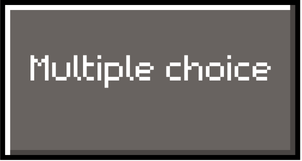
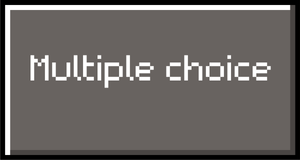
Changed all jpg to png

Changed region(s): [[0.0, 0.0, 1.0, 1.0], [0.09, 0.3438, 0.51, 0.5625], [0.54, 0.3438, 0.9, 0.5312]]

diff --git a/page2.html b/page2.html
@@ -110,29 +110,31 @@
     <div class="bg-container">
         <div class="bg-cropper">
             <img src="lib/2.png" alt="Background" class="bg-img" draggable="false" />
+            <!-- Top row: Big buttons -->
             <a href="/page3?button=pm" style="display:block; z-index:1;">
-                <img src="lib/2_bigbutton_pm.jpg" alt="BigPM" class="scaling-btn" style="cursor:pointer; left:15%; top:calc(40 * 1vh); width:12vw; height:12vw; --btn-top-percent:40%;" />
+                <img src="lib/2_bigbutton_pm.png" alt="BigPM" class="scaling-btn" style="cursor:pointer; left:15%; top:calc(40 * 1vh); width:12vw; height:12vw; --btn-top-percent:40%;" />
             </a>
             <a href="/page3?button=ux" style="display:block; z-index:1;">
-                <img src="lib/2_bigbutton_ux.jpg" alt="BigUX" class="scaling-btn" style="cursor:pointer; left:35%; top:calc(40 * 1vh); width:12vw; height:12vw; --btn-top-percent:40%;" />
+                <img src="lib/2_bigbutton_ux.png" alt="BigUX" class="scaling-btn" style="cursor:pointer; left:35%; top:calc(40 * 1vh); width:12vw; height:12vw; --btn-top-percent:40%;" />
             </a>
             <a href="/page3?button=engi" style="display:block; z-index:1;">
-                <img src="lib/2_bigbutton_engi.jpg" alt="BigENGI" class="scaling-btn" style="cursor:pointer; left:55%; top:calc(40 * 1vh); width:12vw; height:12vw; --btn-top-percent:40%;" />
+                <img src="lib/2_bigbutton_engi.png" alt="BigENGI" class="scaling-btn" style="cursor:pointer; left:55%; top:calc(40 * 1vh); width:12vw; height:12vw; --btn-top-percent:40%;" />
             </a>
             <a href="/page3?button=dm" style="display:block; z-index:1;">
-                <img src="lib/2_bigbutton_dm.jpg" alt="BigDM" class="scaling-btn" style="cursor:pointer; left:75%; top:calc(40 * 1vh); width:12vw; height:12vw; --btn-top-percent:40%;" />
+                <img src="lib/2_bigbutton_dm.png" alt="BigDM" class="scaling-btn" style="cursor:pointer; left:75%; top:calc(40 * 1vh); width:12vw; height:12vw; --btn-top-percent:40%;" />
             </a>
+            <!-- Bottom row: Rectangular buttons -->
             <a href="/page3?button=pm" class="pm-btn" style="display:block; z-index:1;">
-                <img src="lib/button_pm.jpg" alt="PM" class="scaling-btn" style="cursor:pointer; left:13%; top:calc(40 * 1vh + 14vw); width:16vw; height:4vw; --btn-top-percent:54%;" />
+                <img src="lib/button_pm.png" alt="PM" class="scaling-btn" style="cursor:pointer; left:13%; top:calc(40 * 1vh + 14vw); width:16vw; height:4vw; --btn-top-percent:54%;" />
             </a>
             <a href="/page3?button=ux" class="ux-btn" style="display:block; z-index:1;">
-                <img src="lib/button_ux.jpg" alt="UX" class="scaling-btn" style="cursor:pointer; left:33%; top:calc(40 * 1vh + 14vw); width:16vw; height:4vw; --btn-top-percent:54%;" />
+                <img src="lib/button_ux.png" alt="UX" class="scaling-btn" style="cursor:pointer; left:33%; top:calc(40 * 1vh + 14vw); width:16vw; height:4vw; --btn-top-percent:54%;" />
             </a>
             <a href="/page3?button=engi" class="engi-btn" style="display:block; z-index:1;">
-                <img src="lib/button_engi.jpg" alt="ENGI" class="scaling-btn" style="cursor:pointer; left:53%; top:calc(40 * 1vh + 14vw); width:16vw; height:4vw; --btn-top-percent:54%;" />
+                <img src="lib/button_engi.png" alt="ENGI" class="scaling-btn" style="cursor:pointer; left:53%; top:calc(40 * 1vh + 14vw); width:16vw; height:4vw; --btn-top-percent:54%;" />
             </a>
             <a href="/page3?button=dm" class="dm-btn" style="display:block; z-index:1;">
-                <img src="lib/button_dm.jpg" alt="DM" class="scaling-btn" style="cursor:pointer; left:73%; top:calc(40 * 1vh + 14vw); width:16vw; height:4vw; --btn-top-percent:54%;" />
+                <img src="lib/button_dm.png" alt="DM" class="scaling-btn" style="cursor:pointer; left:73%; top:calc(40 * 1vh + 14vw); width:16vw; height:4vw; --btn-top-percent:54%;" />
             </a>
         </div>
     </div>

diff --git a/page6.html b/page6.html
@@ -132,16 +132,16 @@
         <div class="bg-cropper">
             <img src="lib/6.png" alt="Background" class="bg-img" draggable="false" />
             <a href="/page8?button=6a" class="pm-btn" style="display:block; z-index:1;">
-                <img src="lib/button_pm.jpg" alt="6A" class="scaling-btn" style="cursor:pointer;" />
+                <img src="lib/button_pm.png" alt="6A" class="scaling-btn" style="cursor:pointer;" />
             </a>
             <a href="/page8?button=6b" class="dm-btn" style="display:block; z-index:1;">
-                <img src="lib/button_dm.jpg" alt="6B" class="scaling-btn" style="cursor:pointer;" />
+                <img src="lib/button_dm.png" alt="6B" class="scaling-btn" style="cursor:pointer;" />
             </a>
             <a href="/page8?button=6c" class="engi-btn" style="display:block; z-index:1;">
-                <img src="lib/button_engi.jpg" alt="6C" class="scaling-btn" style="cursor:pointer;" />
+                <img src="lib/button_engi.png" alt="6C" class="scaling-btn" style="cursor:pointer;" />
             </a>
             <a href="/page8?button=6d" class="ux-btn" style="display:block; z-index:1;">
-                <img src="lib/button_ux.jpg" alt="6D" class="scaling-btn" style="cursor:pointer;" />
+                <img src="lib/button_ux.png" alt="6D" class="scaling-btn" style="cursor:pointer;" />
             </a>
         </div>
     </div>

diff --git a/page4.html b/page4.html
@@ -132,16 +132,16 @@
         <div class="bg-cropper">
             <img src="lib/4.png" alt="Background" class="bg-img" draggable="false" />
             <a href="/page6?button=4a" class="a-btn" style="display:block; z-index:1;">
-                <img src="lib/4a.jpg" alt="4A" class="scaling-btn" style="cursor:pointer;" />
+                <img src="lib/4a.png" alt="4A" class="scaling-btn" style="cursor:pointer;" />
             </a>
             <a href="/page6?button=4b" class="b-btn" style="display:block; z-index:1;">
-                <img src="lib/4b.jpg" alt="4B" class="scaling-btn" style="cursor:pointer;" />
+                <img src="lib/4b.png" alt="4B" class="scaling-btn" style="cursor:pointer;" />
             </a>
             <a href="/page6?button=4c" class="c-btn" style="display:block; z-index:1;">
-                <img src="lib/4c.jpg" alt="4C" class="scaling-btn" style="cursor:pointer;" />
+                <img src="lib/4c.png" alt="4C" class="scaling-btn" style="cursor:pointer;" />
             </a>
             <a href="/page6?button=4d" class="d-btn" style="display:block; z-index:1;">
-                <img src="lib/4d.jpg" alt="4D" class="scaling-btn" style="cursor:pointer;" />
+                <img src="lib/4d.png" alt="4D" class="scaling-btn" style="cursor:pointer;" />
             </a>
         </div>
     </div>

diff --git a/page5.html b/page5.html
@@ -108,11 +108,11 @@
         }
         /* Hover effect for TRUE button */
         a.true-btn:hover > img {
-            content: url('lib/true_hover.jpg');
+            content: url('lib/true_hover.png');
         }
         /* Hover effect for FALSE button */
         a.false-btn:hover > img {
-            content: url('lib/false_hover.jpg');
+            content: url('lib/false_hover.png');
         }
     </style>
 </head>
@@ -121,10 +121,10 @@
         <div class="bg-cropper">
             <img src="lib/5.png" alt="Background" class="bg-img" draggable="false" />
             <a href="/page7?button=5t" class="true-btn" style="display:block; z-index:1;">
-                <img src="lib/true.jpg" alt="TRUE" class="scaling-btn" style="cursor:pointer;" />
+            <img src="lib/true.png" alt="TRUE" class="scaling-btn" style="cursor:pointer;" />
             </a>
             <a href="/page7?button=5f" class="false-btn" style="display:block; z-index:1;">
-                <img src="lib/false.jpg" alt="FALSE" class="scaling-btn" style="cursor:pointer;" />
+                <img src="lib/false.png" alt="FALSE" class="scaling-btn" style="cursor:pointer;" />
             </a>
         </div>
     </div>

diff --git a/page7.html b/page7.html
@@ -108,11 +108,11 @@
         }
         /* Hover effect for TRUE button */
         a.true-btn:hover > img {
-            content: url('lib/true_hover.jpg');
+            content: url('lib/true_hover.png');
         }
         /* Hover effect for FALSE button */
         a.false-btn:hover > img {
-            content: url('lib/false_hover.jpg');
+            content: url('lib/false_hover.png');
         }
     </style>
 </head>
@@ -121,10 +121,10 @@
         <div class="bg-cropper">
             <img src="lib/7.png" alt="Background" class="bg-img" draggable="false" />
             <a href="/page8?button=7t" class="true-btn" style="display:block; z-index:1;">
-                <img src="lib/true.jpg" alt="TRUE" class="scaling-btn" style="cursor:pointer;" />
+            <img src="lib/true.png" alt="TRUE" class="scaling-btn" style="cursor:pointer;" />
             </a>
             <a href="/page8?button=7f" class="false-btn" style="display:block; z-index:1;">
-                <img src="lib/false.jpg" alt="FALSE" class="scaling-btn" style="cursor:pointer;" />
+                <img src="lib/false.png" alt="FALSE" class="scaling-btn" style="cursor:pointer;" />
             </a>
         </div>
     </div>

diff --git a/page3.html b/page3.html
@@ -110,10 +110,10 @@
         <div class="bg-cropper">
             <img src="lib/3.png" alt="Background" class="bg-img" draggable="false" />
             <a href="/page4?button=mc" class="mc-btn" style="display:block; z-index:1;">
-                <img src="lib/3_button_mc.jpg" alt="MC" class="scaling-btn" style="cursor:pointer; left:50%; top:50%; transform: translate(-120%, -50%); --btn-top-percent:48.5%;" />
+                <img src="lib/3_button_mc.png" alt="MC" class="scaling-btn" style="cursor:pointer; left:50%; top:50%; transform: translate(-120%, -50%); --btn-top-percent:48.5%;" />
             </a>
             <a href="/page5?button=tf" class="tf-btn" style="display:block; z-index:1;">
-                <img src="lib/3_button_tf.jpg" alt="TF" class="scaling-btn" style="cursor:pointer; left:50%; top:50%; transform: translate(20%, -50%); --btn-top-percent:48.5%;" />
+                <img src="lib/3_button_tf.png" alt="TF" class="scaling-btn" style="cursor:pointer; left:50%; top:50%; transform: translate(20%, -50%); --btn-top-percent:48.5%;" />
             </a>
         </div>
     </div>

diff --git a/page1.html b/page1.html
@@ -103,7 +103,7 @@
         <div class="bg-cropper">
             <img src="lib/1.png" alt="Background" class="bg-img" draggable="false" />
             <a href="/page2?button=start" style="display:block; z-index:1;">
-                <img src="lib/1_button.jpg" alt="Button" class="scaling-btn" style="cursor:pointer;" />
+                <img src="lib/1_button.png" alt="Button" class="scaling-btn" style="cursor:pointer;" />
             </a>
         </div>
     </div>

diff --git a/src/main.rs b/src/main.rs
@@ -13,9 +13,7 @@ use user_session::UserSession;
 type Sessions = Arc<Mutex<HashMap<String, UserSession>>>;
 
 fn main() {
-    // TODO change all jpg to png
     // TODO figure out a way to log all information, fly.io volumes?
-    // TODO make sure this is compatible with mobile :D
     let sessions: Sessions = Arc::new(Mutex::new(HashMap::new()));
     // Use 0.0.0.0:8080 on Fly.io, otherwise use 127.0.0.1:7878
     let bind_addr = if std::env::var("FLY_APP_NAME").is_ok() {
